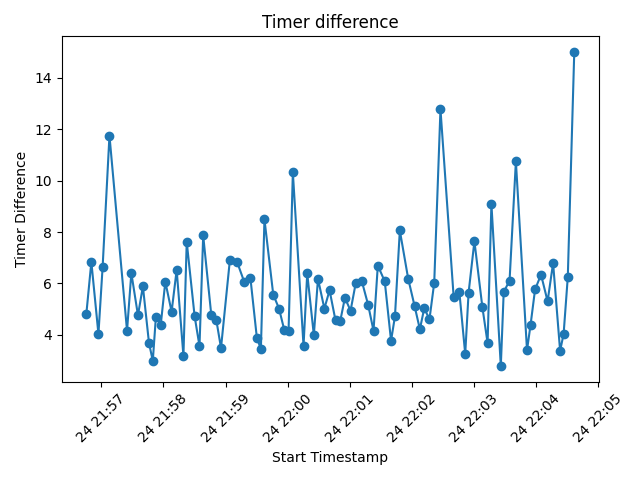
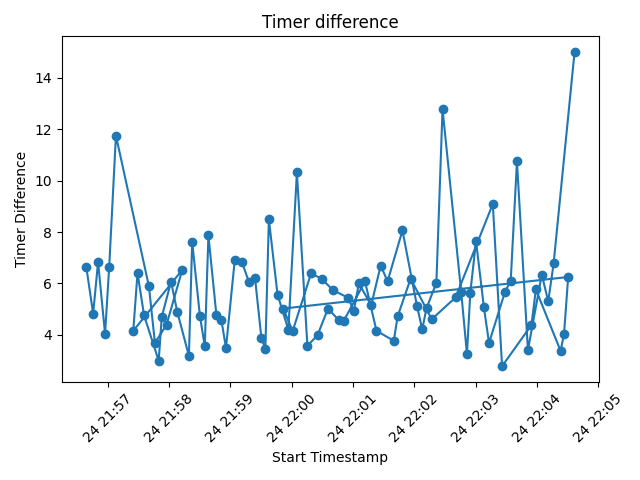
Complete eye tracking

diff --git a/MLPipe.py b/MLPipe.py
@@ -9,6 +9,7 @@ import numpy as np
 from scipy.signal import medfilt
 from scipy.stats import pearsonr
 import itertools
+from ComputeEyeGaze import summarize_eye_gaze
 
 
 def load_data_from_db(db_session: Session):
@@ -116,29 +117,6 @@ def extract_eeg_features_for_round(eeg_row, round_start, round_end):
     return features
 
 
-def summarize_eye_gaze(eye_array):
-    """
-    eye_array: e.g. [[0,1,0,0], [0,1,0,0], [0,0,1,0], ...]
-    Each row is a 'sample' in your VR logging.
-
-    We'll compute fraction of samples that are 1 for each column.
-    """
-    if not eye_array:
-        return {"frac_timer": 0, "frac_gameobj": 0, "frac_outline": 0, "frac_score": 0}
-
-    df = pd.DataFrame(eye_array, columns=["timer", "gameobj", "outline", "score"])
-    frac_timer = df["timer"].mean()
-    frac_gameobj = df["gameobj"].mean()
-    frac_outline = df["outline"].mean()
-    frac_score = df["score"].mean()
-
-    return {
-        "frac_timer": frac_timer,
-        "frac_gameobj": frac_gameobj,
-        "frac_outline": frac_outline,
-        "frac_score": frac_score,
-    }
-
 
 def build_feature_table(vr_df, eeg_df):
     """
@@ -173,6 +151,8 @@ def build_feature_table(vr_df, eeg_df):
             score=vr_row["score"],
             rotation_speed=vr_row["rotation_speed"],
             obj_rotation=vr_row["obj_rotation"],
+            expected_rotation=vr_row["expected_rotation"],
+            obj_size=vr_row["obj_size"],
             leftover_time=leftover_time,
         )
 
@@ -196,50 +176,15 @@ def build_feature_table(vr_df, eeg_df):
     return pd.DataFrame(feature_rows)
 
 
-def compute_performance_metric(score, rotation_speed, obj_rotation, leftover_time):
+def compute_performance_metric(
+    score, rotation_speed, obj_rotation, expected_rotation, obj_size, leftover_time
+):
     """
     Your custom formula. As an example, let's do:
         perf = score + leftover_time - (obj_rotation / 10)  (some arbitrary formula)
     """
     return float(score) + float(leftover_time) - 0.1 * float(obj_rotation)
 
-
-def plot_eye_gaze_percentages(vr_df, row_range=None):
-    """
-    Plots a stacked bar graph showing the percentage of time each object
-    (timer, gameobj, outline, score) was looked at per round.
-
-    Parameters:
-    - vr_df: DataFrame that includes a 'start_stamp' and 'eye_interactables' column
-    - row_range: tuple (start_idx, end_idx) to slice vr_df rows; if None, uses all rows
-    """
-    if row_range:
-        vr_df = vr_df.iloc[row_range[0] : row_range[1]]
-
-    gaze_data = []
-    timestamps = []
-
-    for _, row in vr_df.iterrows():
-        eye_array = row["eye_interactables"]
-        if not eye_array:
-            continue
-        df = pd.DataFrame(eye_array, columns=["timer", "gameobj", "outline", "score"])
-        percentages = df.mean() * 100
-        gaze_data.append(percentages)
-        timestamps.append(row["start_stamp"])
-
-    gaze_df = pd.DataFrame(gaze_data)
-    gaze_df["start_stamp"] = timestamps
-    gaze_df.set_index("start_stamp", inplace=True)
-
-    ax = gaze_df.plot(kind="bar", stacked=True, figsize=(12, 6))
-    ax.set_title("Percentage of Gaze on Objects per Round")
-    ax.set_ylabel("Percentage (%)")
-    ax.set_xlabel("Start Time")
-    ax.legend(title="Object")
-    plt.tight_layout()
-    plt.xticks(rotation=45)
-    plt.show()
 
 
 def clean_sensor_data(sensor_data, max_iters=5, z_thresh=3):
@@ -368,9 +313,7 @@ def plot_multiple_sensors_avg(
 
 def plot_performance(df: pd.DataFrame):
     df["timer_diff"] = df["initial_timer"] - df["end_timer"]
-    # )/(15.1 - df['initial_timer']) * df["obj_size"] * 0.02 + df["end_timer"] * 0.1
 
-    # grouped = df.groupby('session_id')['performance'].mean().reset_index()
 
     plt.figure()
     plt.plot(df["start_stamp"], df["timer_diff"], marker="o")
@@ -400,6 +343,33 @@ def plot_performance(df: pd.DataFrame):
     plt.xticks(rotation=45)  # rotate x-axis labels if needed
     plt.tight_layout()  # fix layout issues
     plt.savefig("stats_imgs/obj_size")
+
+
+
+    df["rot_ratio"] = df["expected_rotation"]/df["obj_rotation"]
+
+    # 20% tolerance on rotation gives us 252/360
+    df["rot_ratio"] = np.where(
+        df["rot_ratio"] > (360/252), 0, df["rot_ratio"]
+    )
+    avg = np.mean(df["rot_ratio"])
+    df["rot_ratio"] = np.where(
+        df["rot_ratio"] == 0, avg, df["rot_ratio"]
+    )
+
+    df["performance"] = df["rot_ratio"]*df["obj_size"]*(df["initial_timer"] - df["end_timer"])/df["initial_timer"]
+    # df["performance"] = df["rot_ratio"]*df["obj_size"] + 0.8*(df["initial_timer"] - df["end_timer"])
+
+
+    plt.figure()
+    plt.plot(df["start_stamp"], df["performance"], marker="o")
+    plt.title("Performance")
+    plt.xlabel("Start Timestamp")
+    plt.ylabel("Performance")
+    plt.xticks(rotation=45)  # rotate x-axis labels if needed
+    plt.tight_layout()  # fix layout issues
+    plt.savefig("stats_imgs/perf")
+    plt.show()
 
     df["timer_diff"] = df["initial_timer"] - df["end_timer"]
     df["rot_diff"] = df["obj_rotation"] - df["expected_rotation"]
@@ -445,33 +415,21 @@ def main_feature_extraction():
         eeg_df["end_stamp"] = pd.to_datetime(eeg_df["end_stamp"]).dt.tz_localize(None)
 
         first_eeg_row = eeg_df.iloc[350].to_dict()
-        filtered_eeg = eeg_df[eeg_df["session_id"] == first_eeg_row["session_id"]]
-        filtered_vr = vr_df[vr_df["session_id"] == first_eeg_row["session_id"]]
+        session_id = first_eeg_row["session_id"]
+        # print(session_id)
+        # session_id = "91ab78a3-7e9e-49d2-95c9-d53e0e202c83"
+        filtered_eeg = eeg_df[eeg_df["session_id"] == session_id]
+        filtered_vr = vr_df[vr_df["session_id"] == session_id]
 
         filtered_vr.sort_values(by="start_stamp", inplace=True)
-        filtered_vr = filtered_vr.iloc[1:].reset_index(drop=True)
+        filtered_vr = filtered_vr.iloc[1 : len(filtered_vr) - 1].reset_index(drop=True)
         if len(filtered_vr) >= 2:
             last_two = filtered_vr.iloc[-2:]
             if (last_two["end_timer"] == 0).all():
                 filtered_vr = filtered_vr.iloc[:-1].reset_index(drop=True)
 
-        sensors_to_plot = [
-            "af3_alpha",
-            "af3_beta_h",
-            "af3_beta_l",
-            "af3_theta",
-            "af3_gamma",
-        ]
+        build_feature_table(filtered_vr, filtered_eeg)
 
-        # # Plot all five in one figure with stacked subplots
-        # plot_multiple_sensors_avg(
-        #     filtered_eeg,
-        #     sensors_to_plot,
-        #     chunk_size=0.3,
-        #     impossible_threshold=20.0,
-        #     z_thresh=1,
-        #     max_iters=5,
-        # )
         # sensors_to_plot = [
         #     "af3_alpha",
         #     "f7_alpha",
@@ -491,7 +449,7 @@ def main_feature_extraction():
         #     max_iters=5,
         # )
 
-        plot_performance(filtered_vr)
+        # plot_performance(filtered_vr)
 
     finally:
         db.close()

diff --git a/ComputeEyeGaze.py b/ComputeEyeGaze.py
@@ -1,0 +1,108 @@
+import pandas as pd
+from datetime import datetime
+from sqlalchemy.orm import Session
+from models.VRDataModel import VRDataModel
+from models.EpocXDataModel import EpocXDataModel
+from db import get_db
+from MLPipe import load_data_from_db
+import matplotlib.pyplot as plt
+import numpy as np
+from scipy.signal import medfilt
+from scipy.stats import pearsonr
+import itertools
+
+
+
+def summarize_eye_gaze(eye_array):
+    """
+    eye_array: e.g. [[0,1,0,0], [0,1,0,0], [0,0,1,0], ...]
+    Each row is a 'sample' in your VR logging.
+
+    We'll compute fraction of samples that are 1 for each column.
+    """
+
+
+    df = pd.DataFrame(eye_array, columns=["timer", "gameobj", "outline", "score"])
+    frac_timer = df["timer"].sum()
+    frac_gameobj = df["gameobj"].sum()
+    frac_outline = df["outline"].sum()
+    frac_score = df["score"].sum()
+
+    print(frac_score)
+    print(len(df))
+    
+    return [
+        frac_timer/len(df),
+        frac_gameobj/len(df),
+        frac_outline/len(df),
+        frac_score/len(df),
+    ]
+
+def plot_eye_gaze_percentages(vr_df, row_range=None):
+    """
+    Plots a stacked bar graph showing the percentage of time each object
+    (timer, gameobj, outline, score) was looked at per round.
+
+    Parameters:
+    - vr_df: DataFrame that includes a 'start_stamp' and 'eye_interactables' column
+    - row_range: tuple (start_idx, end_idx) to slice vr_df rows; if None, uses all rows
+    """
+    if row_range:
+        vr_df = vr_df.iloc[row_range[0] : row_range[1]]
+
+    gaze_data = []
+    timestamps = []
+
+    for _, row in vr_df.iterrows():
+        eye_array = row["eye_interactables"]
+        df = pd.DataFrame(eye_array, columns=["timer", "gameobj", "outline", "score"])
+        percentages = summarize_eye_gaze(df)
+        gaze_data.append(percentages)
+        timestamps.append(row["start_stamp"])
+
+    gaze_df = pd.DataFrame(gaze_data)
+    gaze_df["start_stamp"] = timestamps
+    gaze_df.set_index("start_stamp", inplace=True)
+
+    ax = gaze_df.plot(kind="bar", stacked=True, figsize=(12, 6))
+    ax.set_title("Percentage of Gaze on Objects per Round")
+    ax.set_ylabel("Percentage (%)")
+    ax.set_xlabel("Start Time")
+    ax.legend(title="Object")
+    plt.tight_layout()
+    plt.xticks(rotation=45)
+    plt.show()
+
+
+def main_feature_extraction():
+    db = next(get_db())
+    try:
+        vr_df, eeg_df = load_data_from_db(db)
+        eeg_df["start_stamp"] = pd.to_datetime(eeg_df["start_stamp"]).dt.tz_localize(
+            None
+        )
+        eeg_df["end_stamp"] = pd.to_datetime(eeg_df["end_stamp"]).dt.tz_localize(None)
+
+        first_eeg_row = eeg_df.iloc[380].to_dict()
+        session_id = first_eeg_row["session_id"]
+        print(session_id)
+        # print(session_id)
+        # session_id = "91ab78a3-7e9e-49d2-95c9-d53e0e202c83"
+        filtered_eeg = eeg_df[eeg_df["session_id"] == session_id]
+        filtered_vr = vr_df[vr_df["session_id"] == session_id]
+
+        filtered_vr.sort_values(by="start_stamp", inplace=True)
+        # filtered_vr = filtered_vr.iloc[1 : len(filtered_vr) - 1].reset_index(drop=True)
+        # if len(filtered_vr) >= 2:
+        #     last_two = filtered_vr.iloc[-2:]
+        #     if (last_two["end_timer"] == 0).all():
+        #         filtered_vr = filtered_vr.iloc[:-1].reset_index(drop=True)
+
+        plot_eye_gaze_percentages(filtered_vr)
+
+    finally:
+        db.close()
+
+
+if __name__ == "__main__":
+    main_feature_extraction()

diff --git a/Correlations.py b/Correlations.py
@@ -159,6 +159,7 @@ def main_feature_extraction():
         plt.xticks(rotation=45)
         plt.tight_layout()
         plt.grid(True)
+        plt.savefig("stats_imgs/rand_obj_gaze")
         plt.show()
 
 
@@ -184,7 +185,7 @@ def main_feature_extraction():
             "AF4",
         ]
         for channel in channels:
-            for band in ["alpha", "theta", "beta_l", "beta_h"]:
+            for band in ["alpha"]:
                 sensors_to_avg.append(channel.lower() + "_" + band)
         filtered_eeg = compute_eeg_averages_by_row(
             filtered_eeg,
@@ -195,16 +196,16 @@ def main_feature_extraction():
         )
 
         combined_df = filtered_eeg.join(filtered_vr[["timer_diff", "rot_diff", "rand_obj_gaze"]])
-        sensor_avg_cols = []
-        for channel in channels:
-            sensor_avg_cols.append(channel.lower() + "_alpha")
-            combined_df[channel.lower() + "_theta_beta_ratio"] = combined_df[channel.lower() + "_theta_avg"] / (
-                combined_df[channel.lower() + "_beta_l_avg"] + combined_df[channel.lower() + "_beta_h_avg"]
-            )
+        # sensor_avg_cols = []
+        # for channel in channels:
+        #     sensor_avg_cols.append(channel.lower() + "_alpha")
+        #     combined_df[channel.lower() + "_theta_beta_ratio"] = combined_df[channel.lower() + "_theta_avg"] / (
+        #         combined_df[channel.lower() + "_beta_l_avg"] + combined_df[channel.lower() + "_beta_h_avg"]
+        #     )
 
 
         # Build list of new sensor avg columns (e.g. "af3_alpha_avg")
-        # sensor_avg_cols = [f"{s}_avg" for s in sensors_to_avg]
+        sensor_avg_cols = [f"{s}_avg" for s in sensors_to_avg]
 
         # Finally, compute correlation & plot a correlation matrix
         find_and_plot_correlation(
